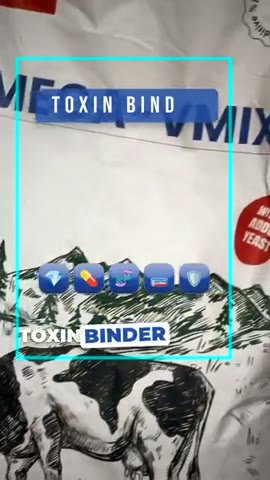
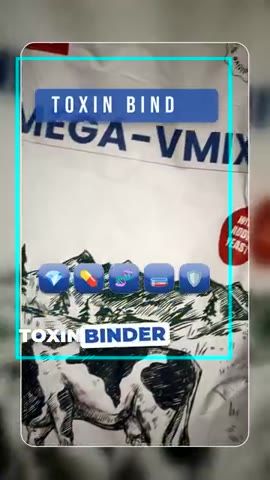
Route live-tracking widget, timed semi-frames, denoise look; mega-vmix-features v2
Claude-Session: https://claude.ai/code/session_0139To4Bi5mkGo2BmfVPNRP3

diff --git a/tools/htmlcaps/cards.css b/tools/htmlcaps/cards.css
@@ -58,3 +58,12 @@
 .panel.light .ptext .off { color: rgba(0,0,0,.25); }
 .panel .ptext .em { font-family: "Playfair Display", serif; font-style: italic; font-weight: 800; color: var(--accent); }
 .panel .ptext .em.off { opacity: .45; }
+
+/* live-tracking route widget over the video */
+.routebox { position: absolute; border-radius: 46px; overflow: hidden; transform-origin: 50% 50%;
+  background: linear-gradient(160deg, rgba(14,28,70,.78), rgba(8,16,40,.86)); border: 2px solid rgba(255,255,255,.35);
+  box-shadow: 0 24px 60px rgba(0,0,0,.35), inset 0 1px 0 rgba(255,255,255,.3); }
+.rt-head { position: absolute; left: 0; right: 0; top: 0; display: flex; flex-direction: column; justify-content: center; }
+.rt-label { font-family: "Inter Tight", sans-serif; font-weight: 700; color: rgba(255,255,255,.8); letter-spacing: .08em; text-transform: uppercase; display: flex; align-items: center; gap: .5em; }
+.rt-dot { width: .7em; height: .7em; border-radius: 50%; display: inline-block; box-shadow: 0 0 12px currentColor; }
+.rt-title { font-family: "Anton", sans-serif; color: #fff; letter-spacing: .01em; line-height: 1.05; text-transform: uppercase; }

diff --git a/tools/cards.py b/tools/cards.py
@@ -66,6 +66,8 @@ def card_frame(c: dict, t: float, dur: float, W: int, H: int, product: str | Non
         return swiss_frame(c, t, dur, W, H, th, fade)
     if kind == "panel":
         return panel_frame(c, t, dur, W, H, th, fade)
+    if kind == "route":
+        return route_frame(c, t, dur, W, H, th, fade)
     rnd = random.Random(seed)
     bokeh = []
     for _ in range(7):
@@ -188,6 +190,70 @@ CITIES = {  # lat, lon
     "Faisalabad": (31.42, 73.08), "Multan": (30.20, 71.47), "Peshawar": (34.01, 71.58), "Quetta": (30.18, 66.98),
     "Gujranwala": (32.16, 74.19), "Khanpur": (28.65, 70.66), "Rahim Yar Khan": (28.42, 70.30), "Hyderabad": (25.40, 68.37), "Rawalpindi": (33.60, 73.04), "Sahiwal": (30.66, 73.11),
 }
+
+
+def route_frame(c: dict, t: float, dur: float, W: int, H: int, th: dict, fade: float) -> str:
+    """Live-tracking widget (delivery-app look): a floating frosted panel over the video with a small
+    Pakistan map, a dashed route that draws from `from` to `to`, a truck emoji driving along it, pins
+    and a header "<label> / FROM -> TO". The rest of the frame stays transparent (video visible)."""
+    from common import REPO
+    geo = json.loads((REPO / "assets/maps/PAK.geo.json").read_text())
+    geom = geo["features"][0]["geometry"]
+    rings = [geom["coordinates"][0]] if geom["type"] == "Polygon" else [p[0] for p in geom["coordinates"]]
+    lons = [x for r in rings for x, _ in r]
+    lats = [y for r in rings for _, y in r]
+    x0, y0, bw, bh = float(c.get("x", 0.46)), float(c.get("y", 0.3)), float(c.get("w", 0.76)), float(c.get("h", 0.3))
+    PW, PH = W * bw, H * bh
+    head = PH * 0.24
+    k = math.cos(math.radians(30))
+    mb = (PW * 0.06, head, PW * 0.88, PH - head - PH * 0.05)
+    sc = min(mb[2] / ((max(lons) - min(lons)) * k), mb[3] / (max(lats) - min(lats)))
+    ox = mb[0] + (mb[2] - (max(lons) - min(lons)) * k * sc) / 2
+    oy = mb[1] + (mb[3] - (max(lats) - min(lats)) * sc) / 2
+
+    def P(lat, lon):
+        return ox + (lon - min(lons)) * k * sc, oy + (max(lats) - lat) * sc
+    path = " ".join("M" + " L".join(f"{P(y, x)[0]:.1f},{P(y, x)[1]:.1f}" for x, y in r) + "Z" for r in rings)
+    src, dst = c.get("from", "Karachi"), c.get("to", "Lahore")
+    fx, fy = P(*CITIES[src])
+    tx, ty = P(*CITIES[dst])
+    cx, cy = (fx + tx) / 2 + (ty - fy) * 0.18, (fy + ty) / 2 - (tx - fx) * 0.05
+    rt = float(c.get("route_time", 1.0))
+    p = ease_out((t - 0.3) / rt)
+    bx = (1 - p) ** 2 * fx + 2 * (1 - p) * p * cx + p ** 2 * tx
+    by = (1 - p) ** 2 * fy + 2 * (1 - p) * p * cy + p ** 2 * ty
+    pin = ease_back((t - 0.3 - rt) / 0.35)
+    acc = c.get("color", th["accent"])
+    pop = ease_back(t / 0.35)
+    blink = 0.35 + 0.65 * (0.5 + 0.5 * math.cos(t * 9))
+    truck = ""
+    if c.get("vehicle", "🚚"):
+        cps = "_".join(f"{ord(ch):x}" for ch in c.get("vehicle", "🚚") if ord(ch) != 0xFE0F)
+        img = REPO / "assets" / "emoji" / f"{cps}.png"
+        if img.exists():
+            ts = PW * 0.13
+            flip = -1 if tx > fx else 1  # emoji truck faces left: mirror it when driving right
+            bounce = math.sin(t * 22) * 2
+            truck = (f'<g transform="translate({bx:.1f} {by - ts * 0.55 + bounce:.1f}) scale({flip} 1)" opacity="{1 if p < 1 else max(0, 1 - (t - 0.3 - rt) / 0.3):.2f}">'
+                     f'<image href="file://{img}" x="{-ts / 2:.1f}" y="{-ts / 2:.1f}" width="{ts:.1f}" height="{ts:.1f}"/></g>')
+    fs = PH * 0.075
+    svg = (f'<svg width="{PW:.0f}" height="{PH:.0f}" viewBox="0 0 {PW:.0f} {PH:.0f}" style="position:absolute;inset:0">'
+           f'<defs><filter id="rg"><feGaussianBlur stdDeviation="5" result="b"/><feMerge><feMergeNode in="b"/><feMergeNode in="SourceGraphic"/></feMerge></filter>'
+           f'<mask id="rm"><path d="M{fx:.1f},{fy:.1f} Q{cx:.1f},{cy:.1f} {tx:.1f},{ty:.1f}" fill="none" stroke="#fff" stroke-width="16" pathLength="1" stroke-dasharray="1" stroke-dashoffset="{1 - p:.4f}"/></mask></defs>'
+           f'<path d="{path}" fill="rgba(255,255,255,.10)" stroke="rgba(255,255,255,.55)" stroke-width="2.5" stroke-linejoin="round"/>'
+           f'<path d="M{fx:.1f},{fy:.1f} Q{cx:.1f},{cy:.1f} {tx:.1f},{ty:.1f}" fill="none" stroke="{acc}" stroke-width="7" stroke-linecap="round" '
+           f'stroke-dasharray="2 16" mask="url(#rm)" filter="url(#rg)"/>'
+           f'<circle cx="{fx:.1f}" cy="{fy:.1f}" r="11" fill="#fff"/><circle cx="{fx:.1f}" cy="{fy:.1f}" r="22" fill="none" stroke="#fff" stroke-opacity=".5" stroke-width="3"/>'
+           f'<text x="{fx + 30:.1f}" y="{fy + 10:.1f}" font-family="Inter Tight" font-weight="800" font-size="{fs * 0.62:.0f}" fill="#fff">{html.escape(src.upper())}</text>'
+           f'<g transform="translate({tx:.1f} {ty:.1f}) scale({max(pin, 0):.3f})"><circle r="30" fill="{acc}" opacity=".3"/>'
+           f'<path d="M0,0 C-22,-26 -26,-50 0,-64 C26,-50 22,-26 0,0Z" fill="{acc}" stroke="#fff" stroke-width="3"/><circle cy="-43" r="9" fill="#fff"/></g>'
+           f'<text x="{tx - 40:.1f}" y="{ty - 72:.1f}" text-anchor="end" font-family="Inter Tight" font-weight="900" font-size="{fs * 0.8:.0f}" fill="#fff" opacity="{min(1, max(pin, 0)):.2f}">{html.escape(dst.upper())}</text>'
+           f'{truck}</svg>')
+    header = (f'<div class="rt-head" style="height:{head:.0f}px;padding:0 {PW * 0.06:.0f}px">'
+              f'<div class="rt-label" style="font-size:{fs * 0.62:.0f}px"><span class="rt-dot" style="background:{acc};opacity:{blink:.2f}"></span>{html.escape(c.get("label", "On the way"))}</div>'
+              f'<div class="rt-title" style="font-size:{fs * 1.15:.0f}px">{html.escape(c.get("title", src + " → " + dst))}</div></div>')
+    return (f'<div class="routebox" style="left:{(x0 - bw / 2) * 100:.2f}%;top:{(y0 - bh / 2) * 100:.2f}%;width:{PW:.0f}px;height:{PH:.0f}px;'
+            f'opacity:{fade:.3f};transform:scale({0.8 + 0.2 * pop:.4f})">{header}{svg}</div>')
 
 
 def map_svg(c: dict, t: float, W: int, H: int, th: dict) -> str:

diff --git a/tools/render.py b/tools/render.py
@@ -428,6 +428,9 @@ def build_graph(edit: dict, work: Path, preview: bool) -> tuple[list[str], str, 
     if look.get("warmth"):  # + warmer, - cooler
         wv = float(look["warmth"])
         vf.append(f"colorbalance=rm={wv:.3f}:bm={-wv:.3f}:rh={wv / 2:.3f}:bh={-wv / 2:.3f}")
+    if look.get("denoise"):  # clean phone-video noise / compression blocks before sharpening (keeps edges)
+        dn = float(look["denoise"])
+        vf.append(f"hqdn3d={1.2 * dn:.2f}:{1.0 * dn:.2f}:{3 * dn:.2f}:{2.5 * dn:.2f}")
     if look.get("sharpen"):
         vf.append(f"unsharp=5:5:{float(look['sharpen'])}:5:5:0")
     if look.get("grain"):  # light film grain for a cinematic touch (applied under text and stickers)
@@ -476,6 +479,37 @@ def build_graph(edit: dict, work: Path, preview: bool) -> tuple[list[str], str, 
         g.append(f"[fbg][fva]overlay={fm}:{ftop}[fr1]")
         g.append(f"[fr1][{i0 + 2}:v]overlay=0:0,format=yuv420p[framed]")
         cv = "[framed]"
+    for k, fr in enumerate(edit.get("frames", [])):  # timed "semi-frame": video shrinks into a rounded card over its own blurred copy
+        from PIL import Image, ImageDraw
+        s0, s1 = float(fr["start"]), float(fr["end"])
+        sc = float(fr.get("scale", 0.84))
+        fw, fh = int(W * sc) // 2 * 2, int(H * sc) // 2 * 2
+        fx, fy = (W - fw) // 2, int(H * float(fr.get("top", (1 - sc) / 2)))
+        rad = int(W * float(fr.get("radius", 0.05)))
+        bwid = max(2, int(W * float(fr.get("border", 0.004))))
+        mk = Image.new("L", (fw, fh), 0)
+        ImageDraw.Draw(mk).rounded_rectangle([0, 0, fw - 1, fh - 1], rad, fill=255)
+        mk.save(work / f"frm{k}_mask.png")
+        bd = Image.new("RGBA", (fw + 2 * bwid, fh + 2 * bwid), (0, 0, 0, 0))
+        bc = tuple(int(str(fr.get("border_color", "#FFFFFF")).lstrip("#")[i:i + 2], 16) for i in (0, 2, 4))
+        ImageDraw.Draw(bd).rounded_rectangle([0, 0, fw + 2 * bwid - 1, fh + 2 * bwid - 1], rad + bwid,
+                                             outline=bc + (int(255 * float(fr.get("border_alpha", 0.85))),), width=bwid)
+        bd.save(work / f"frm{k}_border.png")
+        i0 = inputs.count("-i")
+        for pth in (work / f"frm{k}_mask.png", work / f"frm{k}_border.png"):
+            inputs += ["-loop", "1", "-framerate", str(fps), "-t", f"{total:.3f}", "-i", str(pth)]
+        blur = float(fr.get("blur", 34)) * W / 1080
+        en = f"enable='between(t,{s0:.3f},{s1:.3f})'"
+        g.append(f"{cv}split=3[frA{k}][frB{k}][frC{k}]")
+        g.append(f"[frB{k}]scale={int(W * 1.15)}:-2,crop={W}:{H},gblur=sigma={blur:.1f},"
+                 f"eq=brightness={float(fr.get('bg_brightness', -0.1))}:saturation=1.15[frbg{k}]")
+        g.append(f"[frC{k}]scale={fw}:{fh}:flags=lanczos,format=rgba[frfg{k}]")
+        g.append(f"[{i0}:v]format=gray[frm{k}]")
+        g.append(f"[frfg{k}][frm{k}]alphamerge[frfa{k}]")
+        g.append(f"[frbg{k}][frfa{k}]overlay={fx}:{fy}[frc{k}]")
+        g.append(f"[frc{k}][{i0 + 1}:v]overlay={fx - bwid}:{fy - bwid},format=yuv420p[frd{k}]")
+        g.append(f"[frA{k}][frd{k}]overlay=0:0:{en}[fro{k}]")
+        cv = f"[fro{k}]"
     for k, fl in enumerate(edit.get("flashes", [])):  # quick white (or any colour) flash, e.g. on cuts
         at, d = float(fl.get("at", fl) if isinstance(fl, dict) else fl), float(fl.get("dur", 0.18) if isinstance(fl, dict) else 0.18)
         a = float(fl.get("alpha", 0.75) if isinstance(fl, dict) else 0.75)
